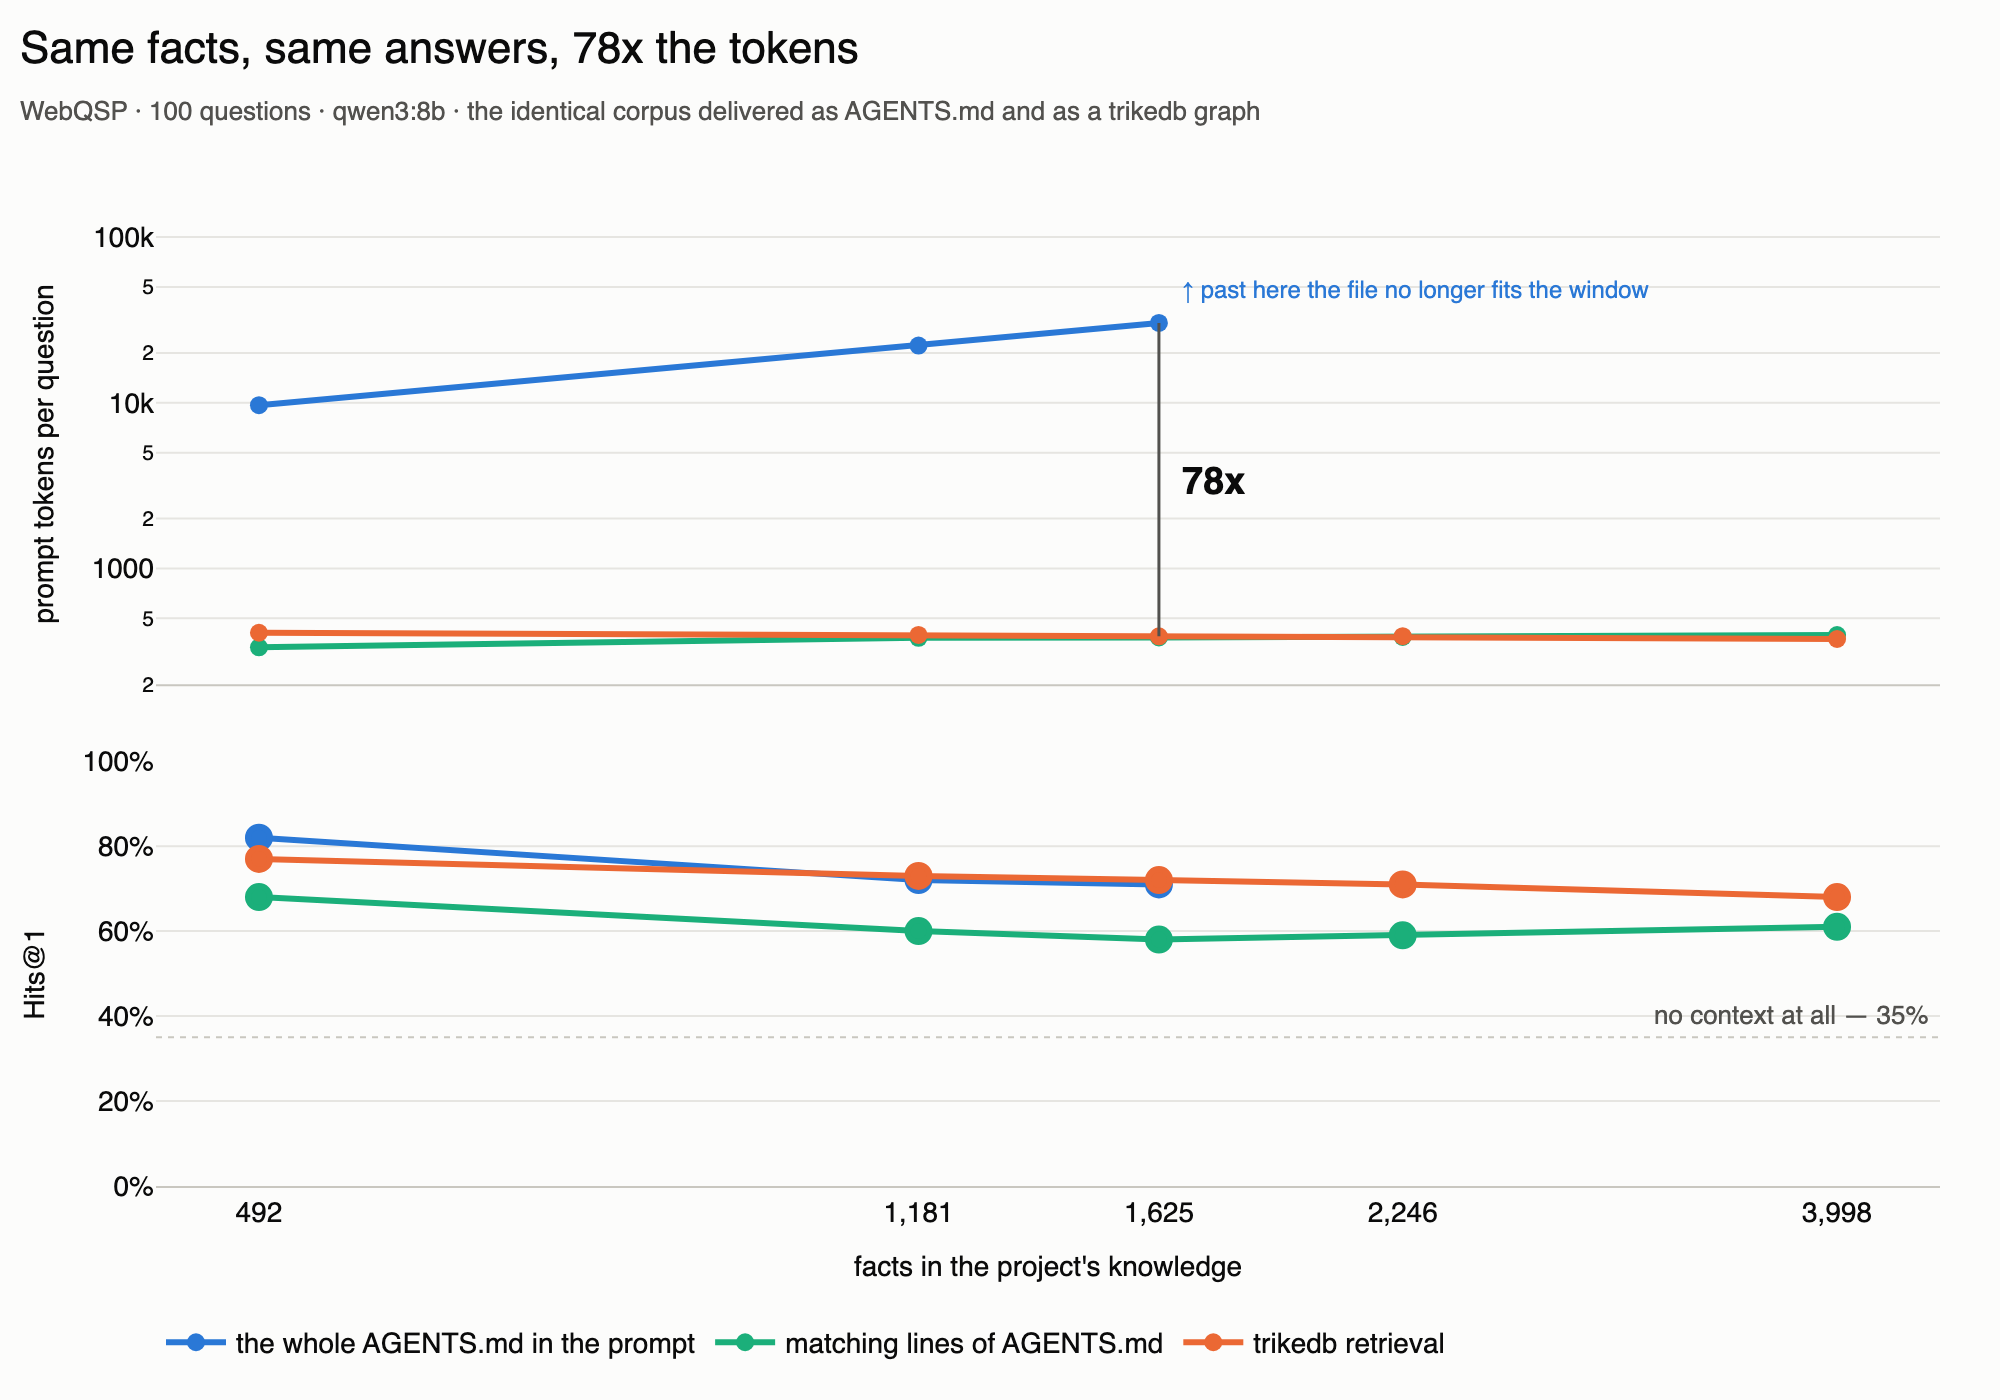
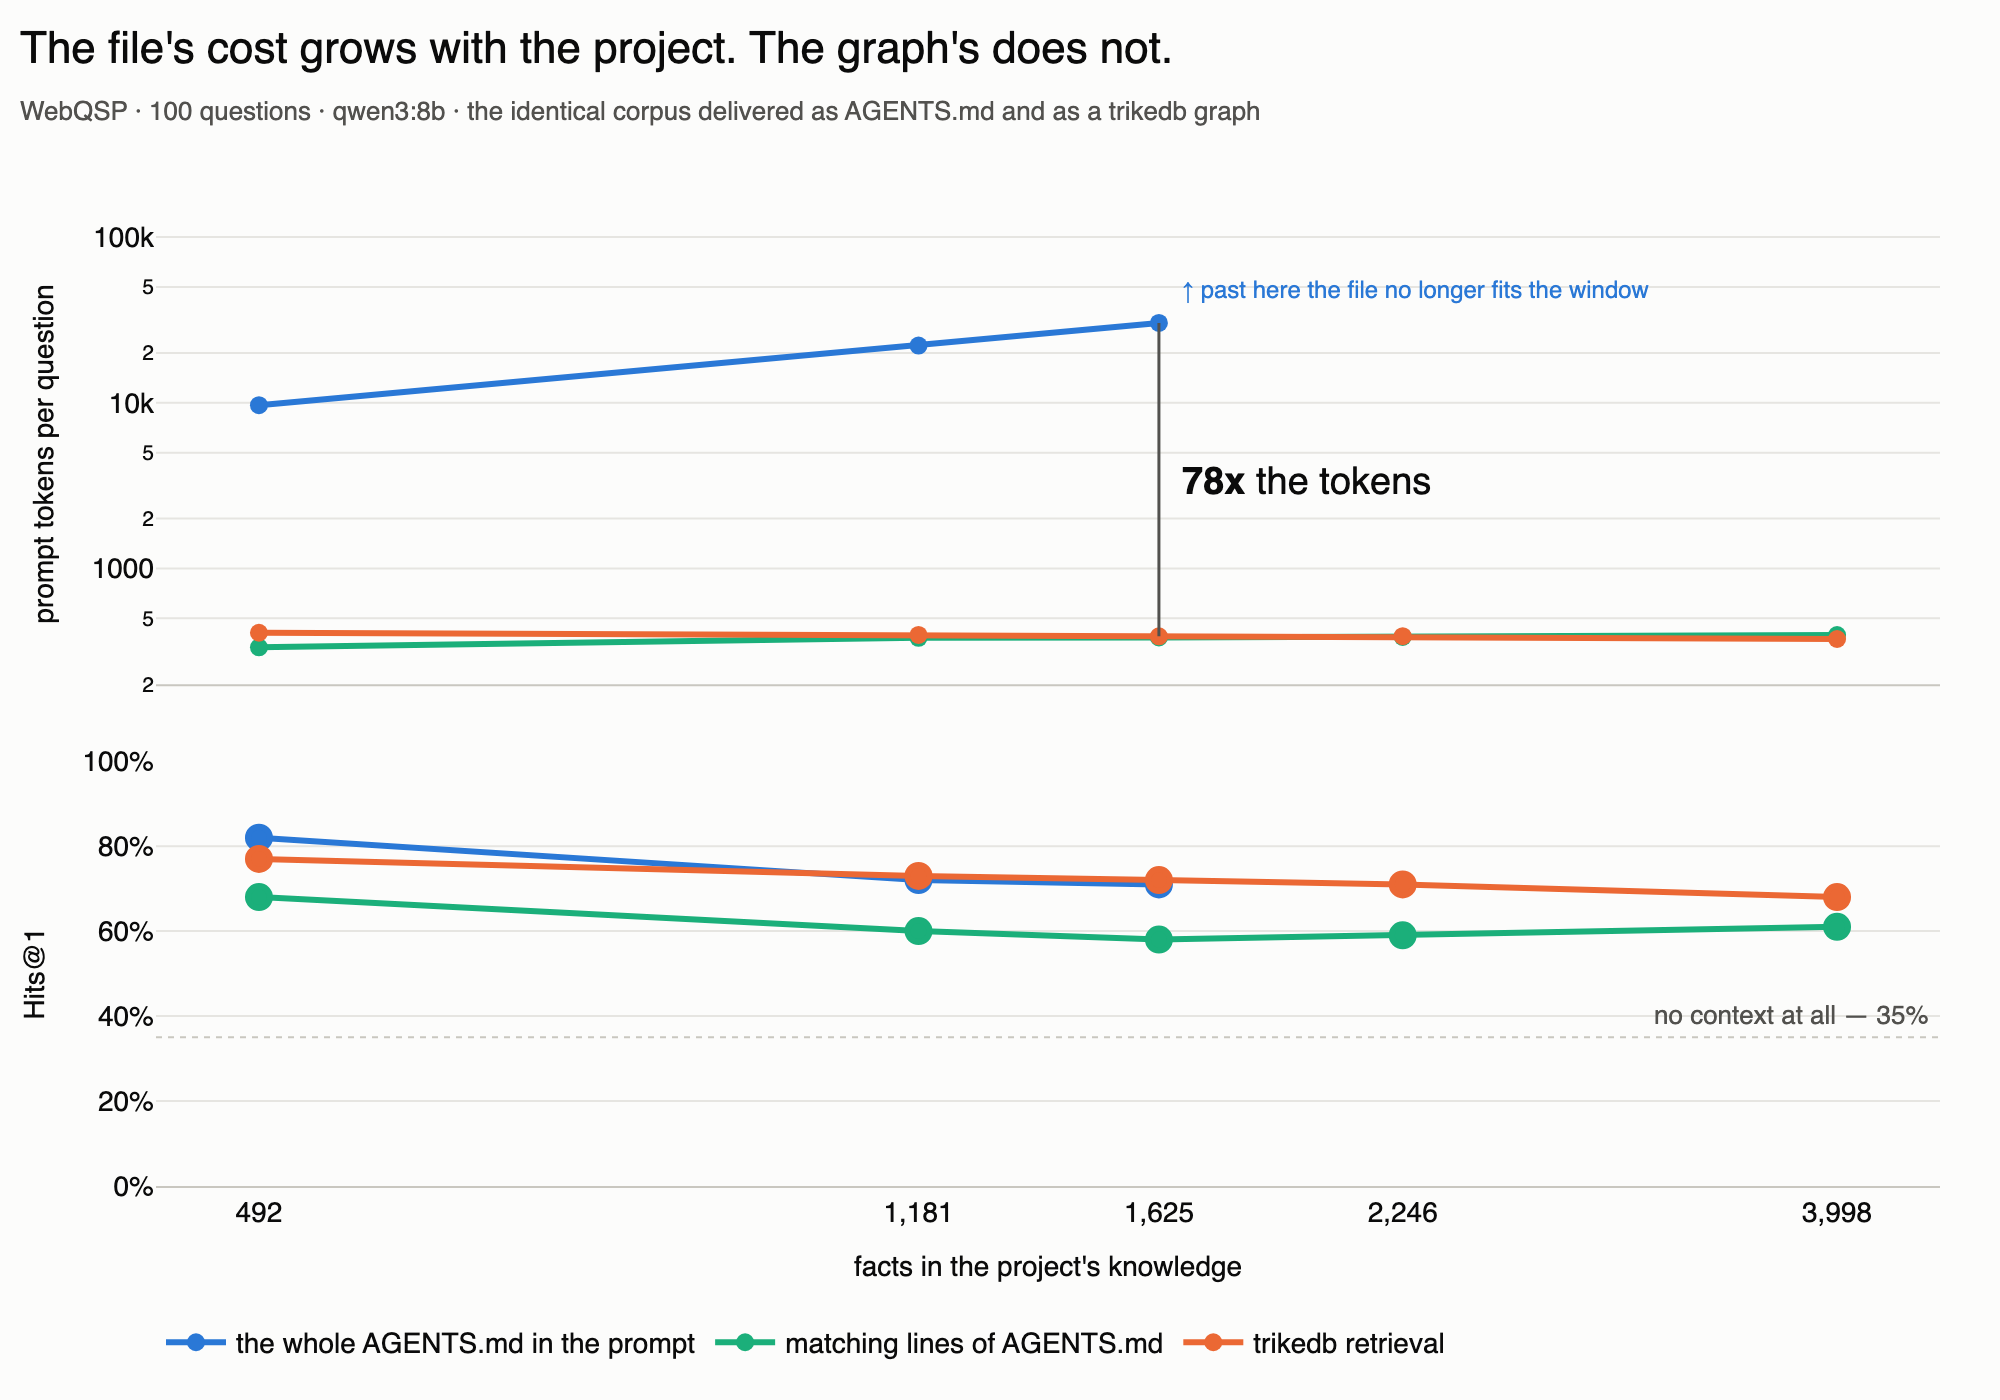
benchmarks: 「同じ精度で78倍」は嘘だった。精度を揃えて測り直した
492 facts では、グラフ15件返しは 77.0% でファイルの 82.0% に5ポイント負けて
いる。同等扱いして 24倍 と書いていたのは、安い間違った答えと高い正しい答えを
比べていたのと同じ。

何件返すかはツマミなので、答えが並ぶところに合わせて測った:

  15件   77.0% /   409 tok  (5pt 負け)
  50件   86.0% / 1,117 tok  (8.7分の1、4pt 勝ち)
  150件  88.0% / 3,125 tok  (3.1分の1、6pt 勝ち)

等価な数字は 8.7倍。1,625 facts では15件で既に並んでいる(72.0% 対 71.0%)ので
そこは 78倍のまま。比が開くのは、育ったファイルが高くなりながら精度も落ちて、
超えるべき基準が下がるから。

図のタイトルも「同じ精度、78倍」から「ファイルのコストは増える、グラフは
増えない」に変えた。後者は予算をどこに置いても成り立つ。ブラケットの78倍は
「トークン78倍」と明記して、等価な削減とは読めないようにした。

記録に cap を残すようにした。トークン比はこの値の関数なので、入っていない
記録は他と比べられない。

Changed region(s): [[0.0, 0.0, 0.589, 0.0614], [0.62, 0.3379, 0.713, 0.3686]]

diff --git a/benchmarks/memory_chart.py b/benchmarks/memory_chart.py
@@ -47,7 +47,7 @@ SERIES = [("md", MD), ("md_grep", MD_GREP), ("graph", GRAPH)]
 #: number and every colour is the same file of data.
 TEXT = {
     "en": {
-        "title": "Same facts, same answers, {ratio:.0f}x the tokens",
+        "title": "The file's cost grows with the project. The graph's does not.",
         "sub": ("WebQSP · 100 questions · qwen3:8b · the identical corpus "
                 "delivered as AGENTS.md and as a trikedb graph"),
         "x": "facts in the project's knowledge",
@@ -56,11 +56,11 @@ TEXT = {
         "md_grep": "matching lines of AGENTS.md",
         "graph": "trikedb retrieval",
         "none": "no context at all",
-        "gap": "<b>{ratio:.0f}x</b>",
+        "gap": "<b>{ratio:.0f}x</b> the tokens",
         "window": "↑ past here the file no longer fits the window",
     },
     "jp": {
-        "title": "同じ事実、同じ精度、トークンは {ratio:.0f} 倍",
+        "title": "ファイルのコストはプロジェクトと共に増える。グラフは増えない。",
         "sub": ("WebQSP · 100問 · qwen3:8b · 同一のコーパスを "
                 "AGENTS.md と trikedb グラフの両方で渡した"),
         "x": "プロジェクトの知識に入っている事実の数",
@@ -69,11 +69,11 @@ TEXT = {
         "md_grep": "AGENTS.md の該当行だけ",
         "graph": "trikedb で検索",
         "none": "文脈なし",
-        "gap": "<b>{ratio:.0f}倍</b>",
+        "gap": "トークン <b>{ratio:.0f}倍</b>",
         "window": "↑ これ以上はファイルが窓に入らない",
     },
     "zh": {
-        "title": "同样的事实，同样的准确率，token 多 {ratio:.0f} 倍",
+        "title": "文件的成本随项目增长，图谱的不会。",
         "sub": ("WebQSP · 100 题 · qwen3:8b · 同一份语料分别以 "
                 "AGENTS.md 和 trikedb 图谱交付"),
         "x": "项目知识中的事实条数",
@@ -82,7 +82,7 @@ TEXT = {
         "md_grep": "只放 AGENTS.md 中匹配的行",
         "graph": "trikedb 检索",
         "none": "没有任何上下文",
-        "gap": "<b>{ratio:.0f} 倍</b>",
+        "gap": "token <b>{ratio:.0f} 倍</b>",
         "window": "↑ 再大文件就装不进上下文窗口",
     },
 }
@@ -96,10 +96,12 @@ def main(lang: str = "en") -> None:
                        key=lambda r: r["corpus_triples"])
           for name, _ in SERIES}
 
-    # The headline ratio is taken at the largest corpus where the file still
-    # fits the window. Past that the file arm is being truncated, and a ratio
-    # computed there would flatter the graph with tokens the file was never
-    # allowed to send.
+    # The bracket's ratio is raw tokens at a fixed retrieval size, taken at
+    # the largest corpus where the file still fits the window. It is not a
+    # like-for-like saving and the title no longer claims it is: at the
+    # smallest corpus this retrieval size scores five points below the file,
+    # so the same ratio there would be comparing a cheap wrong answer against
+    # an expensive right one. README.md carries the accuracy-matched table.
     fitting = [r for r in by["md"] if not r["truncated"]] or by["md"]
     biggest = fitting[-1]
     paired = next(r for r in by["graph"]

diff --git a/benchmarks/memory_bench.py b/benchmarks/memory_bench.py
@@ -699,6 +699,10 @@ def run(bench_dir: Path, condition: str, model: str, out: Path,
                 "prompt_tokens": result["prompt_tokens"],
                 "completion_tokens": result["completion_tokens"],
                 "condition": condition, "num_ctx": ctx, "cache": cache,
+                # How many facts the retrieval was allowed to return. It is
+                # the knob the token ratio is a function of, so a record
+                # without it cannot be compared to another one.
+                "cap": cap,
             }, ensure_ascii=False) + "\n")
             log.flush()
             state["n"] += 1
@@ -731,6 +735,9 @@ def _metrics(recs: list, gold: dict) -> dict:
     hit = sum(wq.hits_at_1(r["answer"], gold[r["id"]]) for r in recs)
     lo, hi = wq._wilson(hit, n)
     name = recs[0].get("condition", "?")
+    cap = recs[0].get("cap")
+    if cap and cap != DEFAULT_CAP and name in ("graph", "md_grep"):
+        name += f"@{cap}"
     if recs[0].get("cache", "warm") != "warm":
         name += "/cold"
     # An over-long prompt is not refused, it is cut down — Ollama keeps about

diff --git a/benchmarks/README_jp.md b/benchmarks/README_jp.md
@@ -14,7 +14,7 @@
 | **速度** | 1問22.5秒のうち **0.59秒** — サーバもインデックスもなく、ファイル1つ |
 | **規模** | **10万トリプル**まで速い。最初に苦しくなるのは意味検索で3万から |
 | **端から端まで** | ノートPCの8Bを載せると **77.7%** が正解（グラフなしでは **42.7%**） |
-| **ファイルとの比較** | 同じ事実を `CLAUDE.md` / `AGENTS.md` に置くと、同じ精度に対して1問あたり **78倍** のトークンがかかります |
+| **ファイルとの比較** | `CLAUDE.md` と同じ精度に到達するのに必要なトークンは、492 facts で **8.7分の1**、1,625 facts で **78分の1** |
 
 ## 精度
 
@@ -58,16 +58,36 @@ p = 0.27）。リーダーを差し替えるなら、「分からなければそ
 
 ![コーパスサイズに対するトークンと精度](memory_jp.png)
 
-| プロジェクトの事実数 | ナレッジファイル全文 | trikedb で | トークン |
-|---|---|---|---|
-| 492 | 9,668 tok · 82.0% | 409 tok · 77.0% | 24倍 |
-| 1,181 | 22,153 tok · 72.0% | 397 tok · **73.0%** | 56倍 |
-| 1,625 | 30,354 tok · 71.0% | 389 tok · **72.0%** | **78倍** |
-| 2,246 | 窓に入らない | 390 tok · 71.0% | — |
-| 3,998 | 窓に入らない | 375 tok · 68.0% | — |
+| プロジェクトの事実数 | ナレッジファイル全文 | trikedb、15件返す |
+|---|---|---|
+| 492 | 9,668 tok · 82.0% | 409 tok · 77.0% |
+| 1,181 | 22,153 tok · 72.0% | 397 tok · **73.0%** |
+| 1,625 | 30,354 tok · 71.0% | 389 tok · **72.0%** |
+| 2,246 | 窓に入らない | 390 tok · 71.0% |
+| 3,998 | 窓に入らない | 375 tok · 68.0% |
 
 100問、`qwen3:8b`、temperature 0、1問1リクエストなので両条件のターン数は一致して
 います。文脈なしは 35.0%。
+
+2つの列は別々に読んでください。492 facts では等価ではありません — グラフは5
+ポイント負けているので、409トークンで買っているのは劣った答えであり、この比は
+等価な削減ではありません。trikedb が何件返すかはツマミ（`--cap`）で、誠実な比較は
+それを**答えが並ぶところ**に合わせます:
+
+| 492 facts、ファイルは 82.0% / 9,668 トークン | 精度 | トークン | |
+|---|---|---|---|
+| trikedb 15件 | 77.0% | 409 | 5pt 負け |
+| **trikedb 50件** | **86.0%** | **1,117** | **8.7分の1、4pt 勝ち** |
+| trikedb 150件 | 88.0% | 3,125 | 3.1分の1、6pt 勝ち |
+
+つまり 492 facts での等価な数字は **8.7倍**で、最初の表の生のトークン比が示す24倍
+ではありません。1,625 facts では15件で既にファイルに並んでいる（72.0% 対 71.0%）
+ので、そこでの比が78倍。比が開くのは、**育ったファイルは高くなり、同時に精度も
+落ちる**ので、グラフが超えるべき基準が下がるからです。
+
+ファイル側にこのツマミはありません。すでに全部送っているので、492 facts では
+82.0% が天井で、いくら払っても上がりません。グラフは 88.0% まで届いて、それでも
+まだ3.1倍安い。
 
 差が開く理由は、**マークダウンには索引がない**からです。ファイルは全文を送るしか
 ない — Solomon の節だけを渡すには、まず全文を読まなければならない。だからコストは

diff --git a/benchmarks/README_zh.md b/benchmarks/README_zh.md
@@ -14,7 +14,7 @@
 | **速度** | 一题 22.5 秒里的 **0.59 秒** — 没有服务器，没有索引，只有一个文件 |
 | **规模** | 到 **10 万条三元组**仍然很快；最先撑不住的是语义检索，3 万条 |
 | **端到端** | 接上一个笔记本级 8B 阅读模型后答对 **77.7%**（没有图谱时是 **42.7%**） |
-| **与文件的对比** | 同样的事实放进 `CLAUDE.md` / `AGENTS.md`，在同样的准确率下每题要多花 **78 倍** 的 token |
+| **与文件的对比** | 要达到 `CLAUDE.md` 的准确率，所需 token 在 492 条时是 **1/8.7**，1,625 条时是 **1/78** |
 
 ## 准确率
 
@@ -54,16 +54,34 @@
 
 ![token 与准确率随语料规模的变化](memory_zh.png)
 
-| 项目中的事实条数 | 整份知识文件 | 用 trikedb | token |
-|---|---|---|---|
-| 492 | 9,668 tok · 82.0% | 409 tok · 77.0% | 24 倍 |
-| 1,181 | 22,153 tok · 72.0% | 397 tok · **73.0%** | 56 倍 |
-| 1,625 | 30,354 tok · 71.0% | 389 tok · **72.0%** | **78 倍** |
-| 2,246 | 装不进窗口 | 390 tok · 71.0% | — |
-| 3,998 | 装不进窗口 | 375 tok · 68.0% | — |
+| 项目中的事实条数 | 整份知识文件 | trikedb，返回 15 条 |
+|---|---|---|
+| 492 | 9,668 tok · 82.0% | 409 tok · 77.0% |
+| 1,181 | 22,153 tok · 72.0% | 397 tok · **73.0%** |
+| 1,625 | 30,354 tok · 71.0% | 389 tok · **72.0%** |
+| 2,246 | 装不进窗口 | 390 tok · 71.0% |
+| 3,998 | 装不进窗口 | 375 tok · 68.0% |
 
 100 道题，`qwen3:8b`，temperature 0，每题一次请求，因此两组的轮数完全一致。完全
 没有上下文时是 35.0%。
+
+这两列要分开读，因为在 492 条时它们并不等价：图谱那边低 5 个百分点，也就是说
+409 个 token 换来的是更差的答案，这个比值不是同等条件下的节省。trikedb 返回多少
+条是一个旋钮（`--cap`），诚实的比较要把它调到**答案打平的位置**：
+
+| 492 条，文件是 82.0% / 9,668 token | 准确率 | token | |
+|---|---|---|---|
+| trikedb 15 条 | 77.0% | 409 | 低 5 个百分点 |
+| **trikedb 50 条** | **86.0%** | **1,117** | **便宜 8.7 倍，高 4 个百分点** |
+| trikedb 150 条 | 88.0% | 3,125 | 便宜 3.1 倍，高 6 个百分点 |
+
+所以 492 条时同等条件下的数字是 **8.7 倍**，而不是第一张表原始 token 比所暗示的
+24 倍。在 1,625 条时返回 15 条就已经与文件打平（72.0% 对 71.0%），那里的比值才是
+78 倍。比值会拉开，是因为**变大的文件既更贵、准确率又更低**，图谱要跨过的门槛
+反而降低了。
+
+文件那边没有这个旋钮。它已经把全部内容都发出去了，所以在 492 条时 82.0% 就是
+上限，再多花也买不到。而图谱能做到 88.0%，并且仍然便宜 3.1 倍。
 
 差距会拉开，是因为 **markdown 没有索引**。文件只能整份发送 —— 想只递出 Solomon
 那一节，得先把文件读完 —— 所以它的成本正比于*项目的大小*。图谱是可寻址的，成本

diff --git a/benchmarks/README.md b/benchmarks/README.md
@@ -14,7 +14,7 @@ Measured on [WebQSP](https://aclanthology.org/P16-2033/), 300 questions.
 | **Speed** | **0.59 s** of the 22.5 s an answer takes — no server, no index, one file |
 | **Scale** | fast to **100,000 triples**; semantic search gives out first, at 30,000 |
 | **End to end** | a laptop-sized 8B reader then answers **77.7%** correctly, against **42.7%** with no graph |
-| **Against a file** | the same facts as `CLAUDE.md` / `AGENTS.md` cost **78x** the tokens per question, for the same answers |
+| **Against a file** | reaching a `CLAUDE.md`'s accuracy takes **8.7x** fewer tokens at 492 facts, **78x** at 1,625 |
 
 ## Accuracy
 
@@ -61,16 +61,37 @@ arbitrary.
 
 ![Tokens and accuracy against corpus size](memory.png)
 
-| facts in the project | as a knowledge file | with trikedb | tokens |
-|---|---|---|---|
-| 492 | 9,668 tok · 82.0% | 409 tok · 77.0% | 24x |
-| 1,181 | 22,153 tok · 72.0% | 397 tok · **73.0%** | 56x |
-| 1,625 | 30,354 tok · 71.0% | 389 tok · **72.0%** | **78x** |
-| 2,246 | does not fit | 390 tok · 71.0% | — |
-| 3,998 | does not fit | 375 tok · 68.0% | — |
+| facts in the project | as a knowledge file | trikedb, 15 facts returned |
+|---|---|---|
+| 492 | 9,668 tok · 82.0% | 409 tok · 77.0% |
+| 1,181 | 22,153 tok · 72.0% | 397 tok · **73.0%** |
+| 1,625 | 30,354 tok · 71.0% | 389 tok · **72.0%** |
+| 2,246 | does not fit | 390 tok · 71.0% |
+| 3,998 | does not fit | 375 tok · 68.0% |
 
 100 questions, `qwen3:8b`, temperature 0, one request per question so the arms
 are turn-matched. No context at all scores 35.0%.
+
+Read the columns separately, because at 492 facts they are not equivalent: the
+graph is 5 points behind there, so its 409 tokens buys a worse answer and the
+ratio is not a like-for-like saving. How many facts trikedb returns is a knob
+(`--cap`), and the honest comparison sets it to where the answers match:
+
+| 492 facts, the file scores 82.0% on 9,668 tokens | Hits@1 | tokens | |
+|---|---|---|---|
+| trikedb, 15 facts | 77.0% | 409 | 5 points behind |
+| **trikedb, 50 facts** | **86.0%** | **1,117** | **8.7x cheaper, 4 points ahead** |
+| trikedb, 150 facts | 88.0% | 3,125 | 3.1x cheaper, 6 points ahead |
+
+So the like-for-like number at 492 facts is **8.7x**, not the 24x the first
+table's raw tokens suggest. At 1,625 facts 15 facts already matches the file
+(72.0% against 71.0%), and there the ratio is 78x — it grows because a growing
+file costs more *and* answers worse, which lowers the bar the graph has to
+clear.
+
+The file has no such knob. It is already sending everything, so 82.0% is its
+ceiling at 492 facts and no budget buys more. The graph reaches 88.0% and is
+still 3.1x cheaper.
 
 The reason the gap grows is that markdown has no index. The file has to be
 sent whole, because there is no way to hand over only the Solomon section
